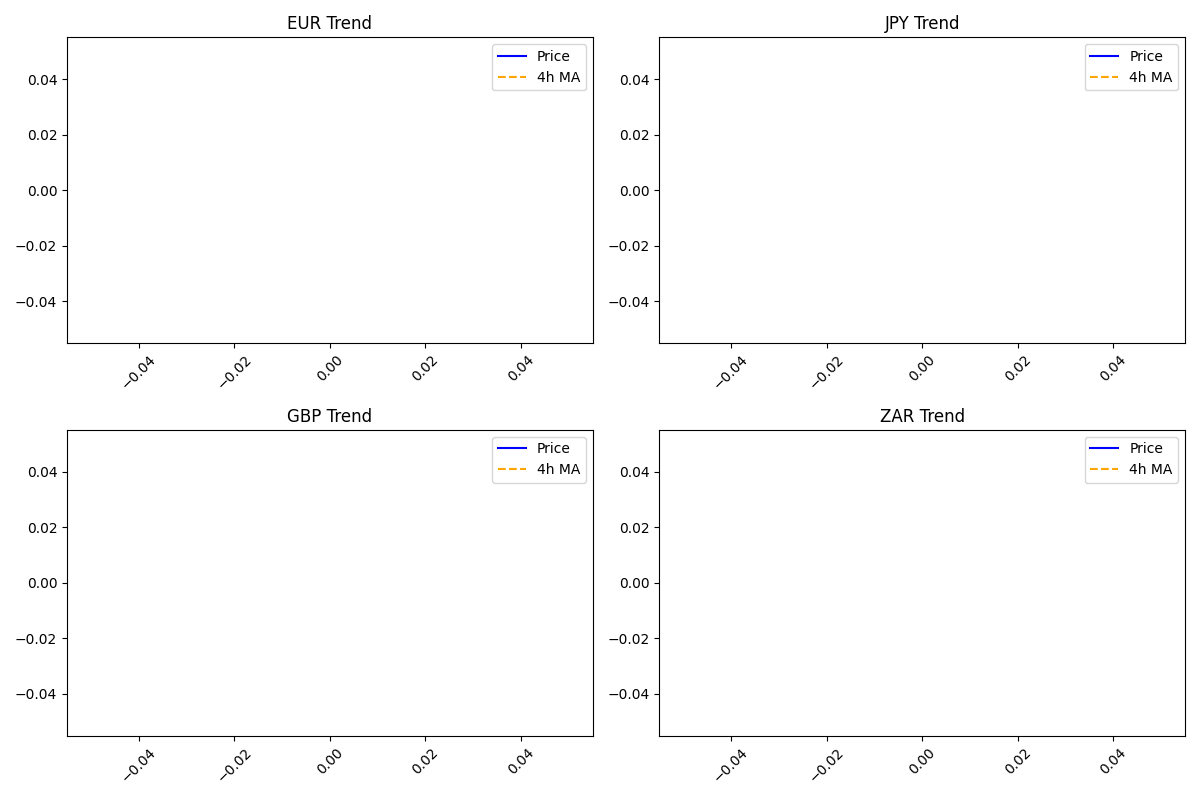
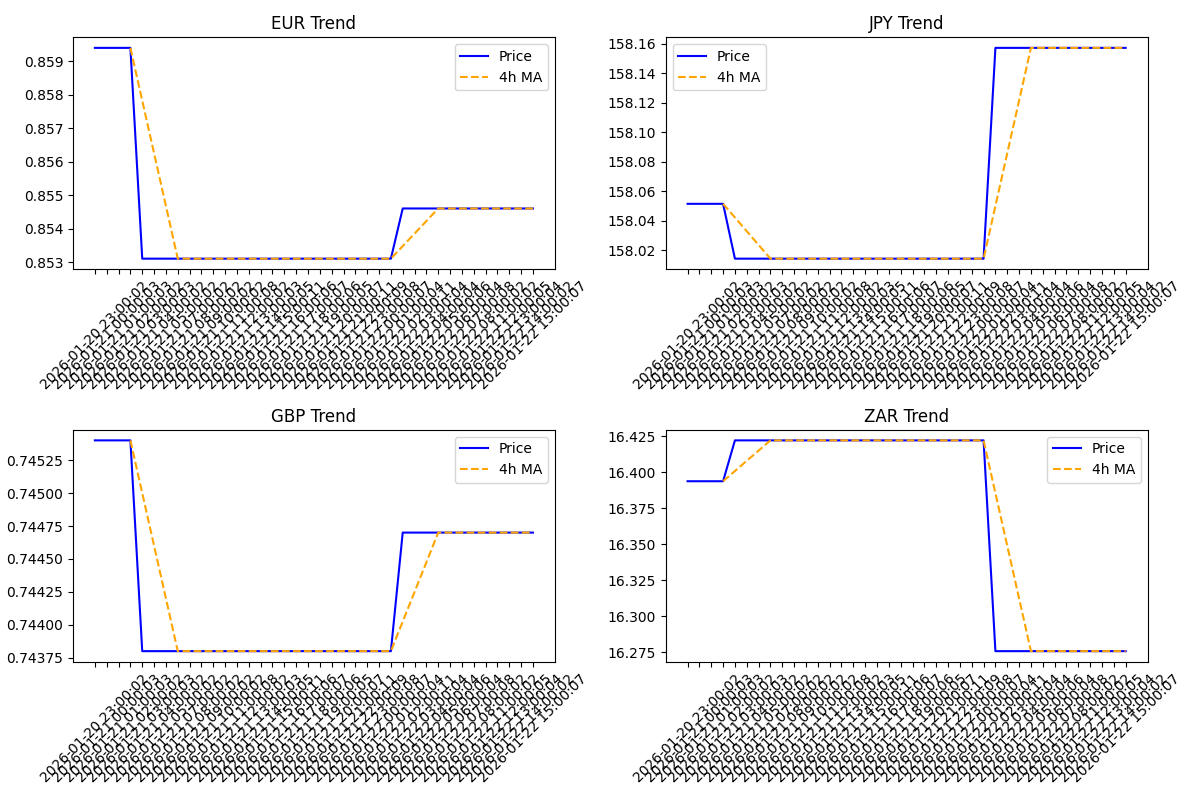
Added the requirements.txt

diff --git a/market_pipeline/analyzer.py b/market_pipeline/analyzer.py
@@ -23,12 +23,14 @@ def run_analysis():
     plt.figure(figsize=(12, 8))
 
     all_data = []
-    for i, symbol in enumerate(symbols, 1):
-        sym_df = df[df['symbol'] == 'symbol'] .copy()
+    for i, symbol in enumerate(symbols, 1):        
+        sym_df = df[df['symbol'] == symbol].copy()
         #Calculating the 4HR Moving Average
         sym_df['4h_MA'] = sym_df['price'].rolling(window=4).mean()
         all_data.append(sym_df)
-
+        
+        #print(sym_df)
+            
         #This is the subplot logic
         plt.subplot(2, 2, i)
         plt.plot(sym_df['timestamp'], sym_df['price'], label='Price', color='blue')
@@ -37,10 +39,13 @@ def run_analysis():
         plt.xticks(rotation=45)
         plt.legend()
 
+        #print(all_data)
+
     #Saving outputs to my folders
     pd.concat(all_data).to_excel(f"{OUTPUT_DIR}Market_Report.xlsx", index=False)
     plt.tight_layout()
     plt.savefig(f"{OUTPUT_DIR}Dashboard.png")
+    #print(all_data)
     print(f"Analysis complete. Files saved in {OUTPUT_DIR}")
 
 if __name__ == '__main__':

diff --git a/market_pipeline/README.md b/market_pipeline/README.md
@@ -1,1 +1,47 @@
-# markets_pipeline
+# 📈 Market Data Pipeline & Analytics (Automated ETL)
+
+An automated ETL (Extract, Transform, Load) pipeline that tracks global currency rates against the USD, stores historical data in a local SQLite database, and generates automated performance reports with technical indicators.
+
+## 🚀 Project Overview
+
+This project was built to solve the challenge of manual data collection and analysis. It automates the entire lifecycle of data:
+1. **Extraction:** Fetches real-time exchange rates for EUR, JPY, GBP, and ZAR via the ExchangeRate-API.
+2. **Loading:** Cleans and inserts data into a structured SQLite database.
+3. **Transformation:** Calculates a **4-Hour Moving Average** using Pandas to identify market trends.
+4. **Visualization:** Generates an automated Excel report and a visual Matplotlib dashboard.
+
+## 🛠 Tech Stack
+* **Language:** Python 3.10+
+* **Automation:** Linux Cron (WSL)
+* **Data Handling:** Pandas, SQLite3
+* **Visualization:** Matplotlib, Openpyxl
+* **Environment:** Python-dotenv, Requests
+
+## 📂 Project Structure
+```text
+market_pipeline/
+├── data/
+│   └── market_data.db        # SQLite Database
+├── outputs/
+│   ├── Market_Report.xlsx    # Automated Excel export
+│   └── Dashboard.png         # Trend visualization
+├── collector.py              # Ingestion script
+├── analyzer.py               # Processing & Viz script
+├── .env                      # API Keys & Paths (Hidden)
+└── requirements.txt          # Project dependencies
+
+⚙ Engineering Challenges & Solutions
+During development, several environment-specific hurdles were overcome, demonstrating proficiency in Linux systems and debugging:
+
+Cron Automation in WSL: Solved issues where scheduled tasks failed due to pathing. Implemented absolute paths for the virtual environment and scripts to ensure reliable 24/7 automation.
+
+DNS Resolution: Fixed a Temporary failure in name resolution error within WSL by reconfiguring the Linux subsystem's DNS settings (8.8.8.8), ensuring the collector could reach external APIs consistently.
+
+Logical Debugging: Identified and resolved a "silent fail" in the analysis layer where a string literal was used instead of a variable during Pandas filtering, ensuring the data integrity of the final reports.
+
+📊 Visualizations
+The pipeline generates a 4-pane dashboard showing price movements and moving averages for the tracked currencies.
+
+# New challenges I am still working on, is the fact that my API only uses daily prices. Therefore pulling the prices every hour is not only redundant but not usefull as the prices are the same for the 24 hours of the day. This results in a straight line when displaying the prices on a chart. Also, this makes the 4-hour Moving Average to be not usefull as it also displays a straight line. 
+
+# I will proceed to find a solution for this problem. (22/01/2026)
